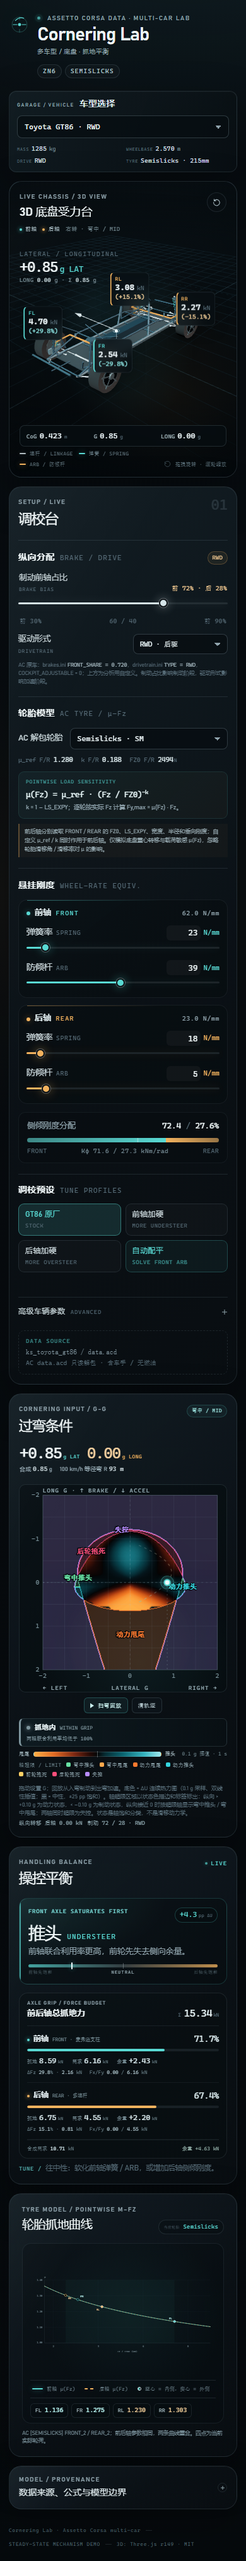
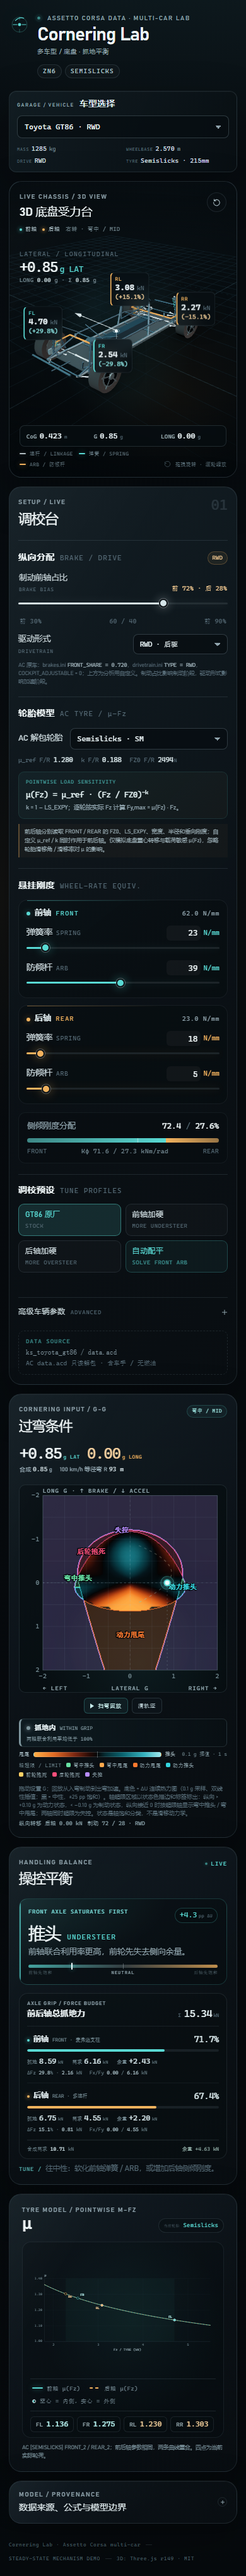
Rename tyre panel to mu and enlarge chart typography

diff --git a/styles.css b/styles.css
@@ -3278,11 +3278,12 @@ input:focus-visible {
 }
 
 .tyre-curve-head h2 {
-  margin: 4px 0 0;
+  margin: 3px 0 0;
   color: var(--text);
-  font-size: 19px;
+  font-size: 27px;
   font-weight: 500;
-  letter-spacing: -0.025em;
+  letter-spacing: -0.02em;
+  line-height: 0.95;
 }
 
 .tyre-curve-summary {
@@ -3348,15 +3349,15 @@ input:focus-visible {
 }
 
 .tyre-curve-axes text {
-  fill: #6e828b;
+  fill: #789098;
   font-family: var(--font-mono);
-  font-size: 9.5px;
+  font-size: 13.5px;
   font-variant-numeric: tabular-nums;
 }
 
 .tyre-curve-axes .tyre-axis-title {
-  fill: #8ca2aa;
-  font-size: 9px;
+  fill: #9bb1b9;
+  font-size: 12.5px;
   letter-spacing: 0.06em;
 }
 
@@ -3402,11 +3403,12 @@ input:focus-visible {
 .tyre-point-label {
   fill: #ecf8fa;
   font-family: var(--font-mono);
-  font-size: 10px;
-  letter-spacing: 0.04em;
+  font-size: 12.5px;
+  font-weight: 600;
+  letter-spacing: 0.03em;
   paint-order: stroke;
   stroke: #071014;
-  stroke-width: 3px;
+  stroke-width: 3.5px;
   stroke-linejoin: round;
 }
 
@@ -3425,9 +3427,9 @@ input:focus-visible {
   margin: 1px 0 0;
   padding: 8px 3px 0;
   border-top: 1px solid var(--line);
-  color: #667a83;
+  color: #71858e;
   font-family: var(--font-mono);
-  font-size: 8px;
+  font-size: 9.4px;
   letter-spacing: 0.02em;
 }
 
@@ -3475,13 +3477,13 @@ input:focus-visible {
   display: inline-flex;
   align-items: baseline;
   gap: 5px;
-  padding: 3px 7px;
+  padding: 3px 8px;
   border: 1px solid rgba(170, 201, 213, 0.12);
   border-radius: 6px;
   color: #7d9299;
   background: rgba(5, 12, 16, 0.3);
   font-family: var(--font-mono);
-  font-size: 8px;
+  font-size: 9.2px;
 }
 
 .tyre-wheel-chip i {
@@ -3492,7 +3494,7 @@ input:focus-visible {
 
 .tyre-wheel-chip b {
   color: #d3e3e7;
-  font-size: 10px;
+  font-size: 11.8px;
   font-weight: 400;
   font-variant-numeric: tabular-nums;
 }

diff --git a/index.html b/index.html
@@ -665,7 +665,7 @@
           <div class="tyre-curve-head">
             <div>
               <div class="eyebrow">TYRE MODEL / POINTWISE μ–Fz</div>
-              <h2 id="tyreCurveTitle">轮胎抓地曲线</h2>
+              <h2 id="tyreCurveTitle">μ</h2>
             </div>
             <span class="tyre-model-chip"><small>当前轮胎</small><b id="curveTyreName">Semislicks</b></span>
           </div>
